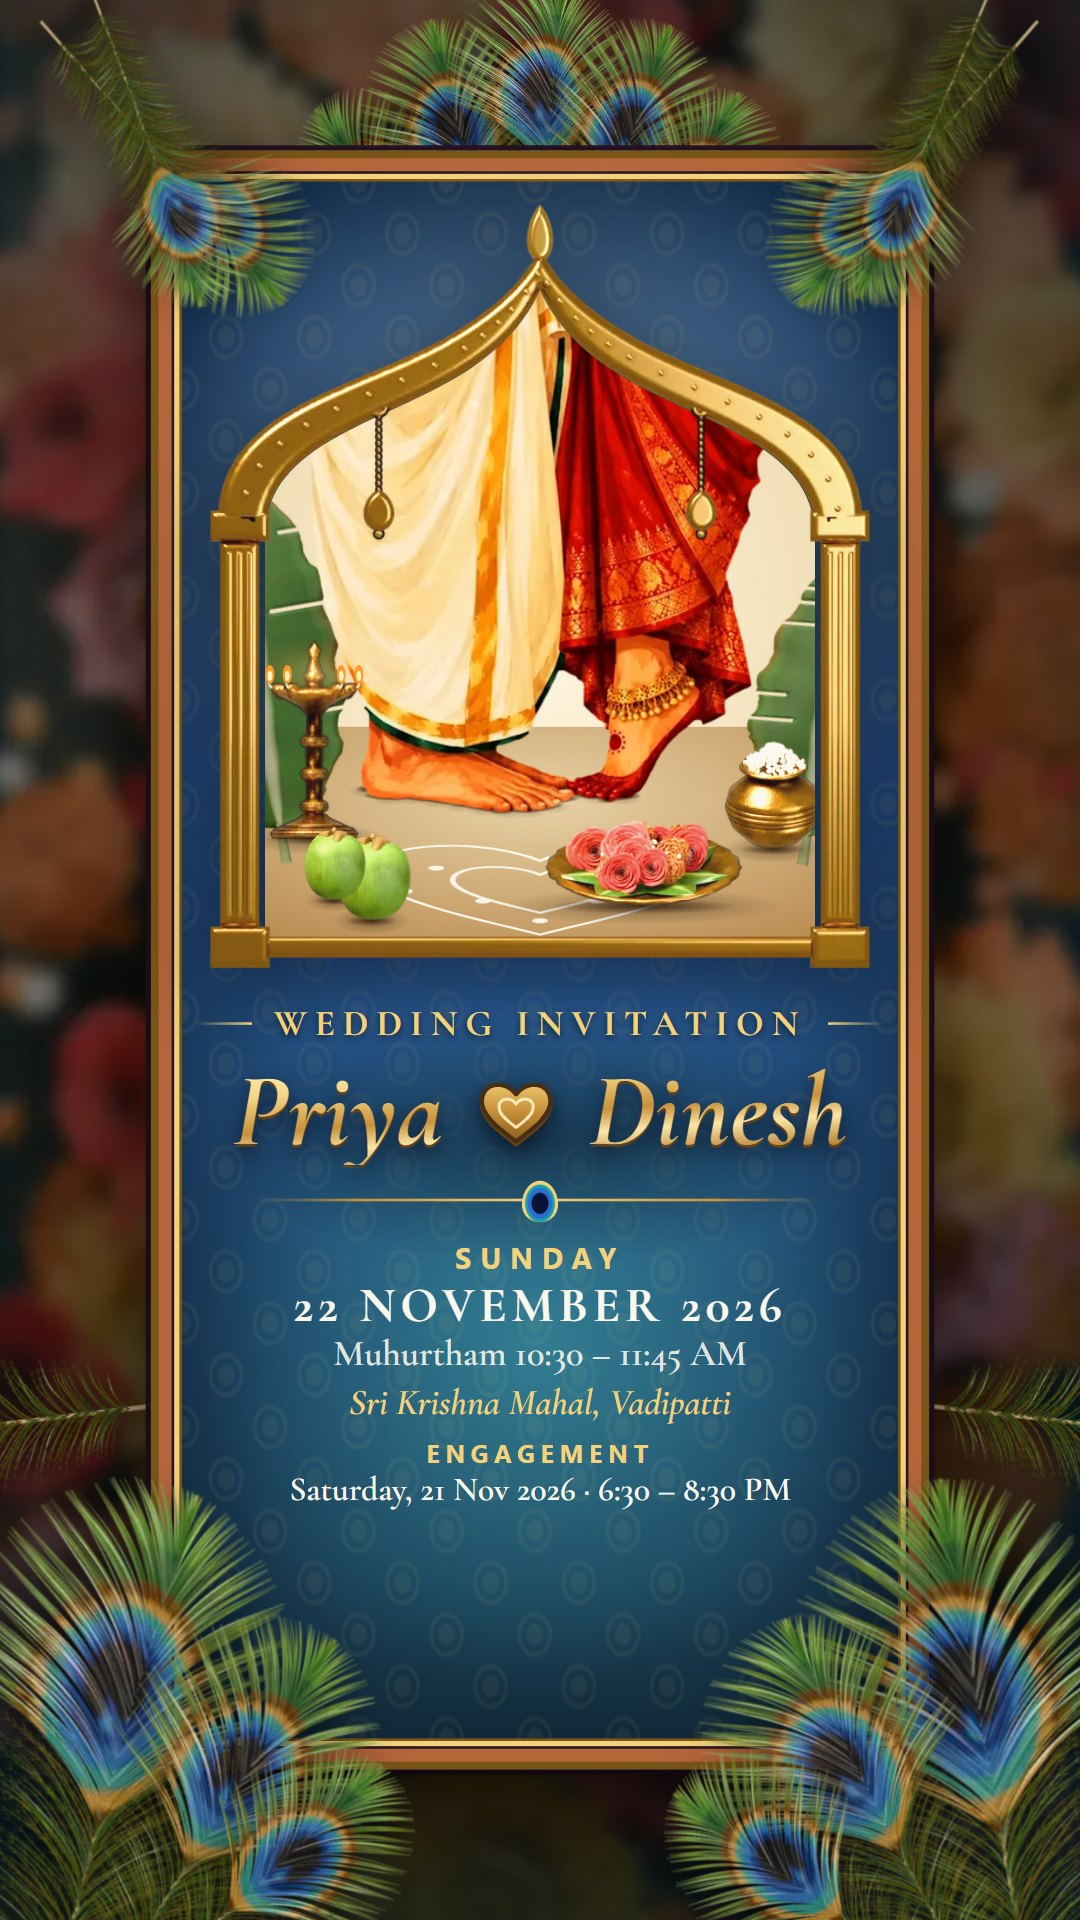
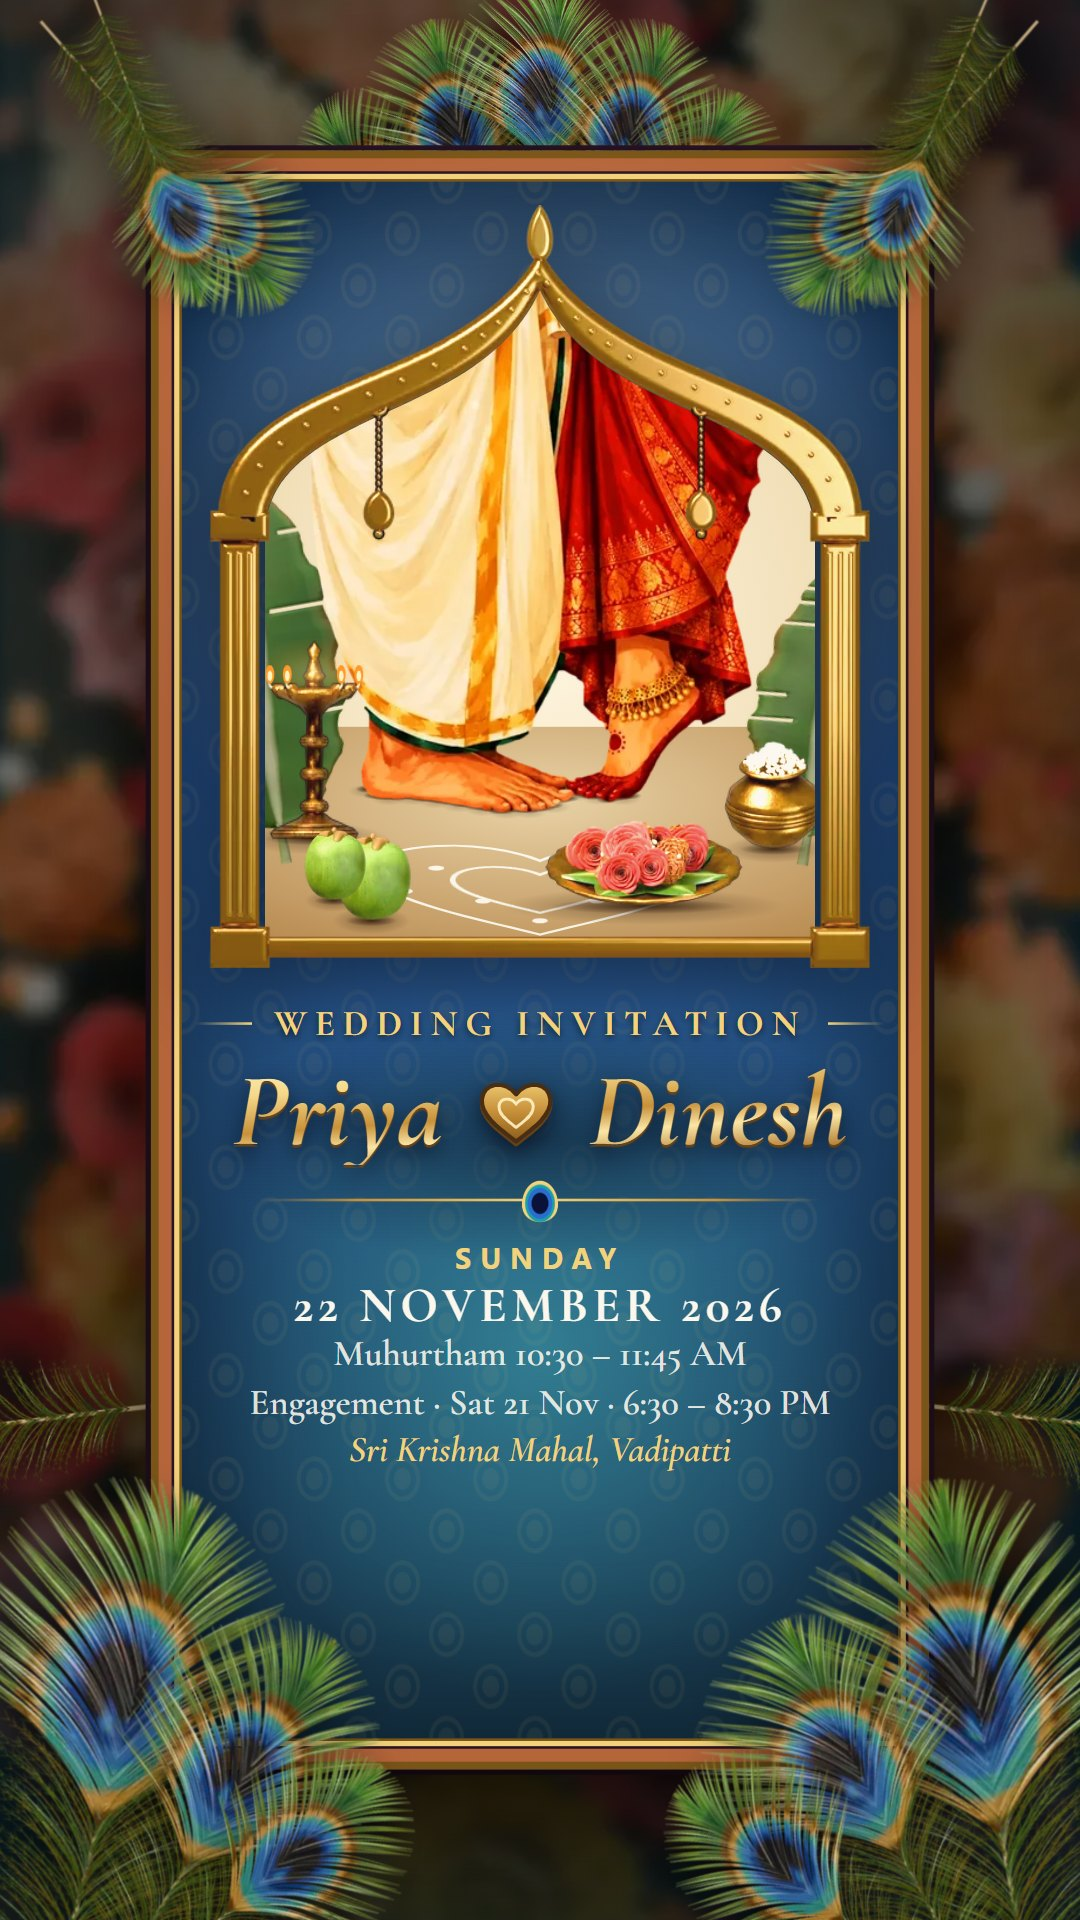
invitation: engagement on the card

Changed region(s): [[0.2444, 0.7188, 0.7639, 0.7812]]

diff --git a/public/i/priya-dinesh/index.html b/public/i/priya-dinesh/index.html
@@ -69,9 +69,9 @@
         <div class="day" data-t="day"></div>
         <div class="d" data-t="date"></div>
         <div class="m" data-t="muh"></div>
+        <div class="m e" data-t="engCard"></div>
         <div class="v" data-t="venue"></div>
         <div class="cd" id="cd"></div>
-        <div class="pextra"><div class="pev"><b data-t="eng"></b><span data-t="engP"></span></div></div>
         <div class="cardbtns"><a class="cta" id="cdir" target="_blank" rel="noopener"><img src="a/ic_map_pin.png" alt=""><span data-t="dir"></span></a>
           <button class="cta" id="more" type="button"><span data-t="more"></span></button></div>
       </div>
@@ -106,7 +106,7 @@
   <div id="toast" class="toast glass" role="status" hidden></div>
   <div id="loading"><img src="a/feather_eye.webp" alt=""><p id="slow" hidden></p></div>
 </div>
-<script id="content" type="application/json">{"_note":"Single source for every visible string (gdd.md Content). Tamil is Claude's draft: the user corrects it here. A missing ta value falls back to en.","events":{"engagement":{"start":"2026-11-21T18:30:00+05:30","end":"2026-11-21T20:30:00+05:30"},"wedding":{"start":"2026-11-22T10:30:00+05:30","end":"2026-11-22T11:45:00+05:30"},"thanks_after":"2026-11-22T11:45:00+05:30"},"map":"https://maps.app.goo.gl/BKnwVCrqyePQuMfS9","games":"https://uv-i.vercel.app/games","en":{"page_title":"Priya ♥ Dinesh · Wedding Invitation","og_desc":"Engagement Sat 21 Nov, 6:30 PM · Wedding Sun 22 Nov 2026, 10:30 AM · Sri Krishna Mahal, Vadipatti","title":"Wedding Invitation","bride":"Priya","groom":"Dinesh","day":"SUNDAY","date":"22 NOVEMBER 2026","muh":"Muhurtham 10:30 – 11:45 AM","venue":"Sri Krishna Mahal, Vadipatti","cd_days":"{d} days · {h} hrs to go","cd_hours":"{h} hrs · {m} min to go","today_wed":"Today! · Wedding at 10:30 AM","thanks":"Thank you for blessing us","cta":"Add to calendar","more":"More ▾","less":"less ▴","skip":"Skip","wed":"WEDDING (MUHURTHAM)","wedT":"Sunday, 22 Nov 2026 · 10:30 – 11:45 AM","dir":"Directions","save":"Save invitation","share":"Share","replay":"Replay","footer":"Made by UV Interactives · play our games →","loading":"Loading…","saved":"Saved","longpress":"Long-press the image to save","copied":"Link copied","ics_blocked":"Open in Chrome/Safari to add","cal_title":"Add to your calendar","gcal_wed":"Google Calendar · Wedding","ics":"Apple & other (.ics) · both events","share_text":"You're invited: Priya ♥ Dinesh · 22 Nov 2026, Sri Krishna Mahal, Vadipatti","ev_wed":"Wedding · Priya ♥ Dinesh","welcome":"As I begin a new chapter of my life, I'd love to have you with me.","close":"Close","wedP":"Sunday, 22 Nov 2026 · 10:30 – 11:45 AM","wedL":"WEDDING","wedS":"Sun 22 Nov · 10:30 – 11:45 AM","say_knot":"Tap the knot to untie","say_kolam":"Trace the heart with your finger","say_dial":"Turn the wheel","say_globe":"Press and hold the glowing light","eng":"ENGAGEMENT","engT":"Saturday, 21 Nov 2026 · 6:30 – 8:30 PM","engL":"ENGAGEMENT","engS":"Sat 21 Nov · 6:30 – 8:30 PM","engP":"Saturday, 21 Nov 2026 · 6:30 – 8:30 PM","today_eng":"Today! · Engagement at 6:30 PM","tomorrow_wed":"Tomorrow · Wedding at 10:30 AM","gcal_eng":"Google Calendar · Engagement","ev_eng":"Engagement · Priya ♥ Dinesh"},"ta":{"page_title":"பிரியா ♥ தினேஷ் · திருமண அழைப்பிதழ்","og_desc":"நிச்சயதார்த்தம் 21 நவ. மாலை 6:30 · திருமணம் 22 நவ. 2026 காலை 10:30 · ஸ்ரீ கிருஷ்ணா மஹால், வாடிப்பட்டி","title":"திருமண அழைப்பிதழ்","bride":"பிரியா","groom":"தினேஷ்","day":"ஞாயிற்றுக்கிழமை","date":"22 நவம்பர் 2026","muh":"முகூர்த்தம் காலை 10:30 – 11:45","venue":"ஸ்ரீ கிருஷ்ணா மஹால், வாடிப்பட்டி","cd_days":"இன்னும் {d} நாட்கள் · {h} மணி","cd_hours":"இன்னும் {h} மணி · {m} நிமிடம்","today_wed":"இன்று! · திருமணம் காலை 10:30","thanks":"ஆசீர்வதித்தமைக்கு நன்றி","cta":"நாட்காட்டியில் சேர்","more":"மேலும் ▾","less":"குறை ▴","skip":"தவிர்","wed":"திருமணம் (முகூர்த்தம்)","wedT":"22 நவம்பர் 2026, ஞாயிறு, காலை 10:30 – 11:45","dir":"வழி","save":"அழைப்பைச் சேமி","share":"பகிர்","replay":"மீண்டும்","footer":"UV Interactives உருவாக்கியது · எங்கள் விளையாட்டுகள் →","loading":"ஏற்றுகிறது…","saved":"சேமிக்கப்பட்டது","longpress":"படத்தை நீண்ட நேரம் அழுத்தி சேமிக்கவும்","copied":"இணைப்பு நகலெடுக்கப்பட்டது","ics_blocked":"Chrome/Safari-இல் திறந்து சேர்க்கவும்","cal_title":"உங்கள் நாட்காட்டியில் சேர்க்கவும்","gcal_wed":"Google Calendar · திருமணம்","ics":"Apple & பிற (.ics) · இரு நிகழ்வுகளும்","share_text":"அன்புடன் அழைக்கிறோம்: பிரியா ♥ தினேஷ் · 22 நவம்பர் 2026, ஸ்ரீ கிருஷ்ணா மஹால், வாடிப்பட்டி","ev_wed":"திருமணம் · பிரியா ♥ தினேஷ்","welcome":"என் வாழ்வின் புதிய அத்தியாயத்தின் தொடக்கத்தில் நீங்கள் உடனிருக்க அன்புடன் அழைக்கிறேன்.","close":"மூடு","wedP":"22 நவ. ஞாயிறு · காலை 10:30 – 11:45","wedL":"திருமணம்","wedS":"22 நவ. ஞாயிறு · காலை 10:30 – 11:45","say_knot":"முடிச்சைத் தொட்டு அவிழ்க்கவும்","say_kolam":"விரலால் இதயத்தை வரையவும்","say_dial":"சக்கரத்தைச் சுழற்றவும்","say_globe":"ஒளிரும் புள்ளியை அழுத்திப் பிடிக்கவும்","eng":"நிச்சயதார்த்தம்","engT":"21 நவம்பர் 2026, சனிக்கிழமை, மாலை 6:30 – இரவு 8:30","engL":"நிச்சயதார்த்தம்","engS":"21 நவ. சனி · மாலை 6:30 – 8:30","engP":"21 நவ. சனி · மாலை 6:30 – இரவு 8:30","today_eng":"இன்று! · நிச்சயதார்த்தம் மாலை 6:30","tomorrow_wed":"நாளை · திருமணம் காலை 10:30","gcal_eng":"Google Calendar · நிச்சயதார்த்தம்","ev_eng":"நிச்சயதார்த்தம் · பிரியா ♥ தினேஷ்"}}</script>
+<script id="content" type="application/json">{"_note":"Single source for every visible string (gdd.md Content). Tamil is Claude's draft: the user corrects it here. A missing ta value falls back to en.","events":{"engagement":{"start":"2026-11-21T18:30:00+05:30","end":"2026-11-21T20:30:00+05:30"},"wedding":{"start":"2026-11-22T10:30:00+05:30","end":"2026-11-22T11:45:00+05:30"},"thanks_after":"2026-11-22T11:45:00+05:30"},"map":"https://maps.app.goo.gl/BKnwVCrqyePQuMfS9","games":"https://uv-i.vercel.app/games","en":{"page_title":"Priya ♥ Dinesh · Wedding Invitation","og_desc":"Engagement Sat 21 Nov, 6:30 PM · Wedding Sun 22 Nov 2026, 10:30 AM · Sri Krishna Mahal, Vadipatti","title":"Wedding Invitation","bride":"Priya","groom":"Dinesh","day":"SUNDAY","date":"22 NOVEMBER 2026","muh":"Muhurtham 10:30 – 11:45 AM","venue":"Sri Krishna Mahal, Vadipatti","cd_days":"{d} days · {h} hrs to go","cd_hours":"{h} hrs · {m} min to go","today_wed":"Today! · Wedding at 10:30 AM","thanks":"Thank you for blessing us","cta":"Add to calendar","more":"More ▾","less":"less ▴","skip":"Skip","wed":"WEDDING (MUHURTHAM)","wedT":"Sunday, 22 Nov 2026 · 10:30 – 11:45 AM","dir":"Directions","save":"Save invitation","share":"Share","replay":"Replay","footer":"Made by UV Interactives · play our games →","loading":"Loading…","saved":"Saved","longpress":"Long-press the image to save","copied":"Link copied","ics_blocked":"Open in Chrome/Safari to add","cal_title":"Add to your calendar","gcal_wed":"Google Calendar · Wedding","ics":"Apple & other (.ics) · both events","share_text":"You're invited: Priya ♥ Dinesh · 22 Nov 2026, Sri Krishna Mahal, Vadipatti","ev_wed":"Wedding · Priya ♥ Dinesh","welcome":"As I begin a new chapter of my life, I'd love to have you with me.","close":"Close","wedP":"Sunday, 22 Nov 2026 · 10:30 – 11:45 AM","wedL":"WEDDING","wedS":"Sun 22 Nov · 10:30 – 11:45 AM","say_knot":"Tap the knot to untie","say_kolam":"Trace the heart with your finger","say_dial":"Turn the wheel","say_globe":"Press and hold the glowing light","eng":"ENGAGEMENT","engT":"Saturday, 21 Nov 2026 · 6:30 – 8:30 PM","engL":"ENGAGEMENT","engS":"Sat 21 Nov · 6:30 – 8:30 PM","engP":"Saturday, 21 Nov 2026 · 6:30 – 8:30 PM","today_eng":"Today! · Engagement at 6:30 PM","tomorrow_wed":"Tomorrow · Wedding at 10:30 AM","gcal_eng":"Google Calendar · Engagement","ev_eng":"Engagement · Priya ♥ Dinesh","engCard":"Engagement · Sat 21 Nov · 6:30 – 8:30 PM"},"ta":{"page_title":"பிரியா ♥ தினேஷ் · திருமண அழைப்பிதழ்","og_desc":"நிச்சயதார்த்தம் 21 நவ. மாலை 6:30 · திருமணம் 22 நவ. 2026 காலை 10:30 · ஸ்ரீ கிருஷ்ணா மஹால், வாடிப்பட்டி","title":"திருமண அழைப்பிதழ்","bride":"பிரியா","groom":"தினேஷ்","day":"ஞாயிற்றுக்கிழமை","date":"22 நவம்பர் 2026","muh":"முகூர்த்தம் காலை 10:30 – 11:45","venue":"ஸ்ரீ கிருஷ்ணா மஹால், வாடிப்பட்டி","cd_days":"இன்னும் {d} நாட்கள் · {h} மணி","cd_hours":"இன்னும் {h} மணி · {m} நிமிடம்","today_wed":"இன்று! · திருமணம் காலை 10:30","thanks":"ஆசீர்வதித்தமைக்கு நன்றி","cta":"நாட்காட்டியில் சேர்","more":"மேலும் ▾","less":"குறை ▴","skip":"தவிர்","wed":"திருமணம் (முகூர்த்தம்)","wedT":"22 நவம்பர் 2026, ஞாயிறு, காலை 10:30 – 11:45","dir":"வழி","save":"அழைப்பைச் சேமி","share":"பகிர்","replay":"மீண்டும்","footer":"UV Interactives உருவாக்கியது · எங்கள் விளையாட்டுகள் →","loading":"ஏற்றுகிறது…","saved":"சேமிக்கப்பட்டது","longpress":"படத்தை நீண்ட நேரம் அழுத்தி சேமிக்கவும்","copied":"இணைப்பு நகலெடுக்கப்பட்டது","ics_blocked":"Chrome/Safari-இல் திறந்து சேர்க்கவும்","cal_title":"உங்கள் நாட்காட்டியில் சேர்க்கவும்","gcal_wed":"Google Calendar · திருமணம்","ics":"Apple & பிற (.ics) · இரு நிகழ்வுகளும்","share_text":"அன்புடன் அழைக்கிறோம்: பிரியா ♥ தினேஷ் · 22 நவம்பர் 2026, ஸ்ரீ கிருஷ்ணா மஹால், வாடிப்பட்டி","ev_wed":"திருமணம் · பிரியா ♥ தினேஷ்","welcome":"என் வாழ்வின் புதிய அத்தியாயத்தின் தொடக்கத்தில் நீங்கள் உடனிருக்க அன்புடன் அழைக்கிறேன்.","close":"மூடு","wedP":"22 நவ. ஞாயிறு · காலை 10:30 – 11:45","wedL":"திருமணம்","wedS":"22 நவ. ஞாயிறு · காலை 10:30 – 11:45","say_knot":"முடிச்சைத் தொட்டு அவிழ்க்கவும்","say_kolam":"விரலால் இதயத்தை வரையவும்","say_dial":"சக்கரத்தைச் சுழற்றவும்","say_globe":"ஒளிரும் புள்ளியை அழுத்திப் பிடிக்கவும்","eng":"நிச்சயதார்த்தம்","engT":"21 நவம்பர் 2026, சனிக்கிழமை, மாலை 6:30 – இரவு 8:30","engL":"நிச்சயதார்த்தம்","engS":"21 நவ. சனி · மாலை 6:30 – 8:30","engP":"21 நவ. சனி · மாலை 6:30 – இரவு 8:30","today_eng":"இன்று! · நிச்சயதார்த்தம் மாலை 6:30","tomorrow_wed":"நாளை · திருமணம் காலை 10:30","gcal_eng":"Google Calendar · நிச்சயதார்த்தம்","ev_eng":"நிச்சயதார்த்தம் · பிரியா ♥ தினேஷ்","engCard":"நிச்சயதார்த்தம் · 21 நவம்பர், சனி\nமாலை 6:30 – இரவு 8:30"}}</script>
 <script src="audio.js" defer></script>
 <script src="app.js" defer></script>
 <script src="intro.js" defer></script>

diff --git a/public/i/priya-dinesh/app.css b/public/i/priya-dinesh/app.css
@@ -62,6 +62,9 @@ body:not(.ta) .t1 { font:700 14px 'Cormorant Garamond'; letter-spacing:.22em; te
 .m { font:600 14px/1.3 "Cormorant Garamond"; color:rgba(251,247,236,.88); }
 .v { font:italic 600 14px/1.3 "Cormorant Garamond"; color:var(--gilt-hi); }
 .ta .m, .ta .v { font:500 12.5px/1.45 "Noto Serif Tamil"; }
+.m.e { white-space:nowrap; }
+.ta .m.e { white-space:pre-line; }   /* Tamil: 2 readable lines instead of one 10.5px line */
+body.ta .txt { top:51%; }   /* the extra Tamil line: lift the block into the gap under the arch so the buttons stay clear of the feathers */   /* engagement line on the card (user 2026-11-14): pairs with the muhurtham line, steps down to fit */
 .cd { display:inline-block; font:600 11px system-ui; color:var(--gilt-hi); margin-top:5px; letter-spacing:.06em;
       padding:3px 10px; border:1px solid rgba(242,210,122,.55); border-radius:99px; background:rgba(6,16,28,.35); white-space:nowrap; }
 .ta .cd { font:600 11px "Noto Serif Tamil"; letter-spacing:0; }

diff --git a/public/i/priya-dinesh/app.js b/public/i/priya-dinesh/app.js
@@ -36,7 +36,7 @@ const HEART = () => { const id = 'hg' + (HID++);   /* the kolam heart, gold foil
 
 /* style.json type.names: single line, step down until it fits (never wrap, never clip) */
 function stepDown(root) {
-  root.querySelectorAll('.names, .t1, .d, .cd, .ink .fit, .say span').forEach(n => {
+  root.querySelectorAll('.names, .t1, .d, .cd, .m.e, .ink .fit, .say span').forEach(n => {
     n.style.fontSize = '';
     const ps = getComputedStyle(n.parentElement), box = n.parentElement.clientWidth - parseFloat(ps.paddingLeft) - parseFloat(ps.paddingRight) - 2;
     let fs = parseFloat(getComputedStyle(n).fontSize);
